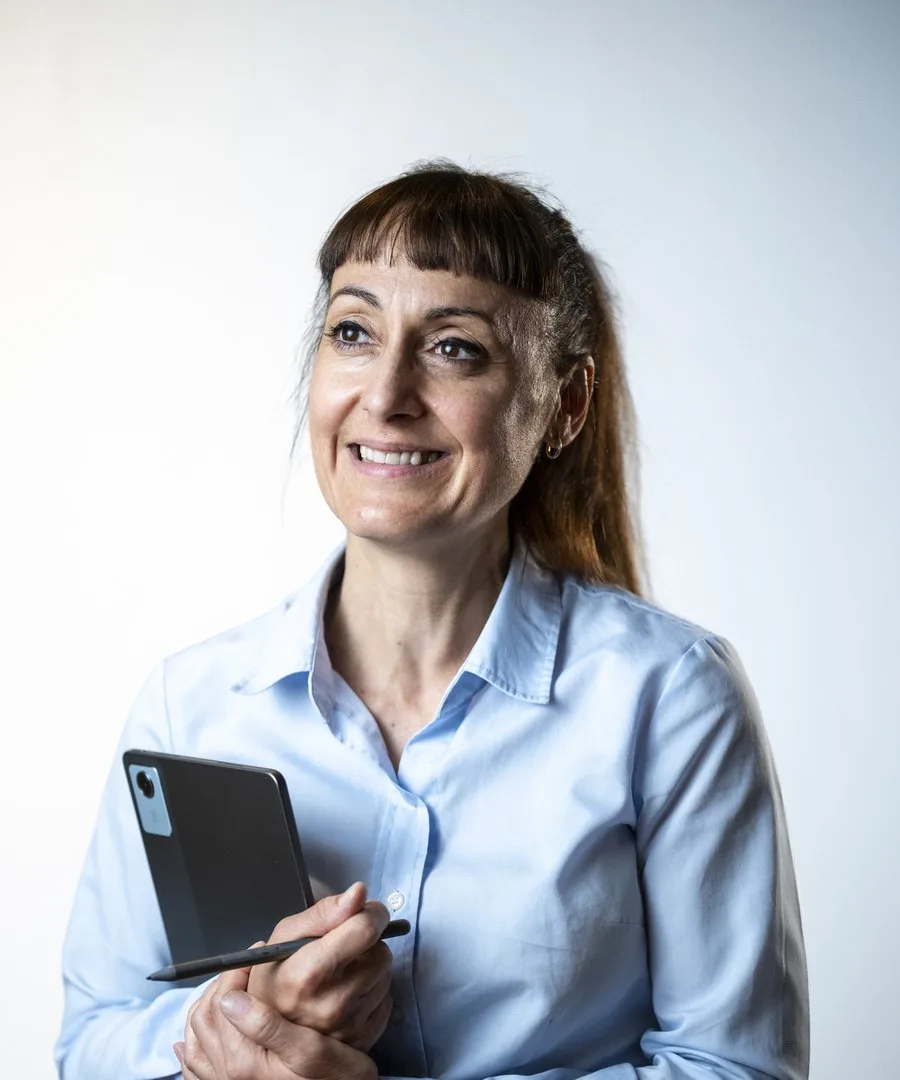
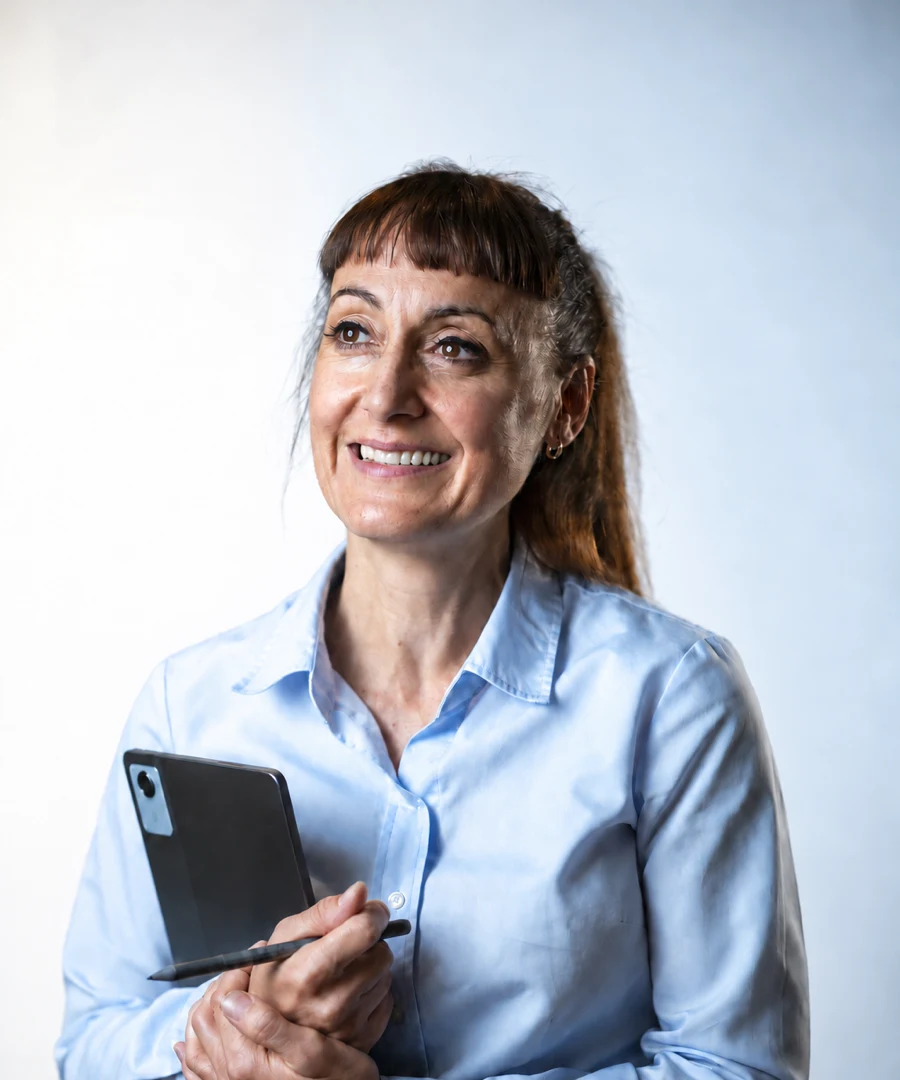
Update Mireia portrait with approved retouch

diff --git a/es/equipo.html b/es/equipo.html
@@ -415,7 +415,7 @@
 
           <article class="team-card reveal">
             <div class="team-card__photo">
-              <picture><source srcset="../assets/img/equip/mireia-pujol.webp" type="image/webp" /><img src="../assets/img/equip/mireia-pujol.jpg" alt="Mireia Pujol" width="900" height="1080" loading="lazy" decoding="async" /></picture>
+              <picture><source srcset="../assets/img/equip/mireia-pujol.webp?v=20260922-retoc" type="image/webp" /><img src="../assets/img/equip/mireia-pujol.jpg?v=20260922-retoc" alt="Mireia Pujol" width="900" height="1080" loading="lazy" decoding="async" /></picture>
             </div>
             <div class="team-card__body">
               <div class="team-card__header">

diff --git a/equip.html b/equip.html
@@ -417,7 +417,7 @@
 
           <article class="team-card reveal">
             <div class="team-card__photo">
-              <picture><source srcset="assets/img/equip/mireia-pujol.webp" type="image/webp" /><img src="assets/img/equip/mireia-pujol.jpg" alt="Mireia Pujol" width="900" height="1080" loading="lazy" decoding="async" /></picture>
+              <picture><source srcset="assets/img/equip/mireia-pujol.webp?v=20260922-retoc" type="image/webp" /><img src="assets/img/equip/mireia-pujol.jpg?v=20260922-retoc" alt="Mireia Pujol" width="900" height="1080" loading="lazy" decoding="async" /></picture>
             </div>
             <div class="team-card__body">
               <div class="team-card__header">
